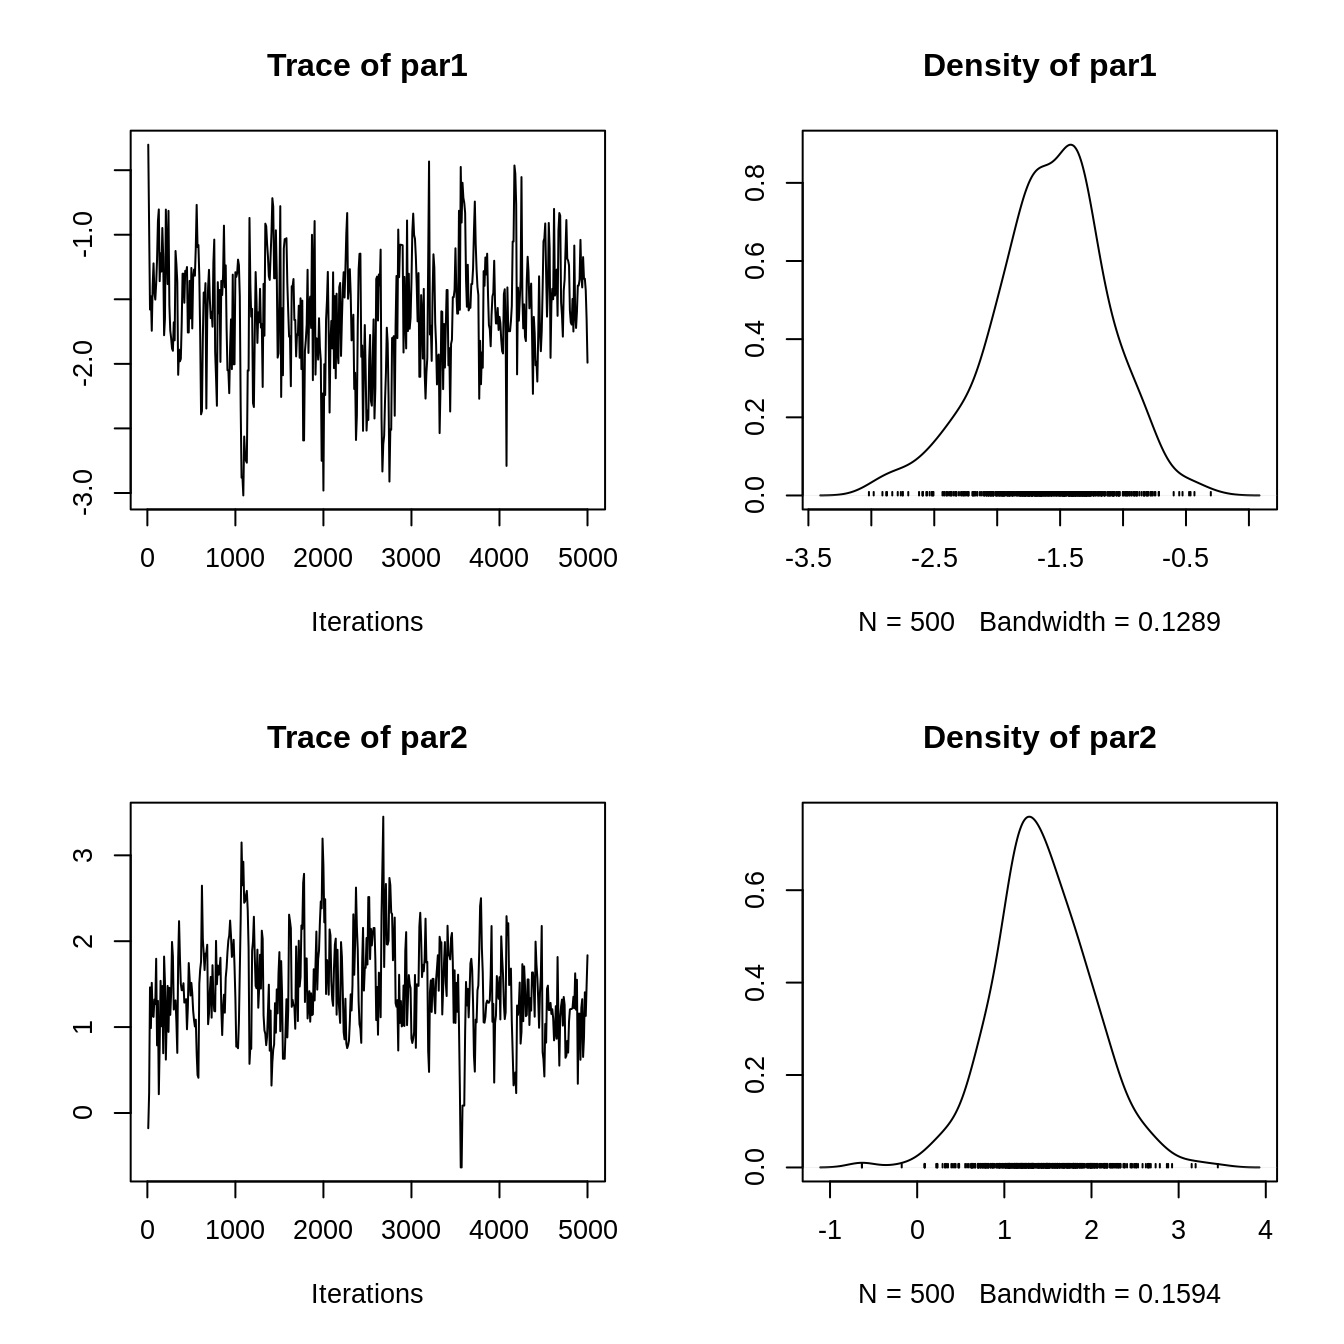
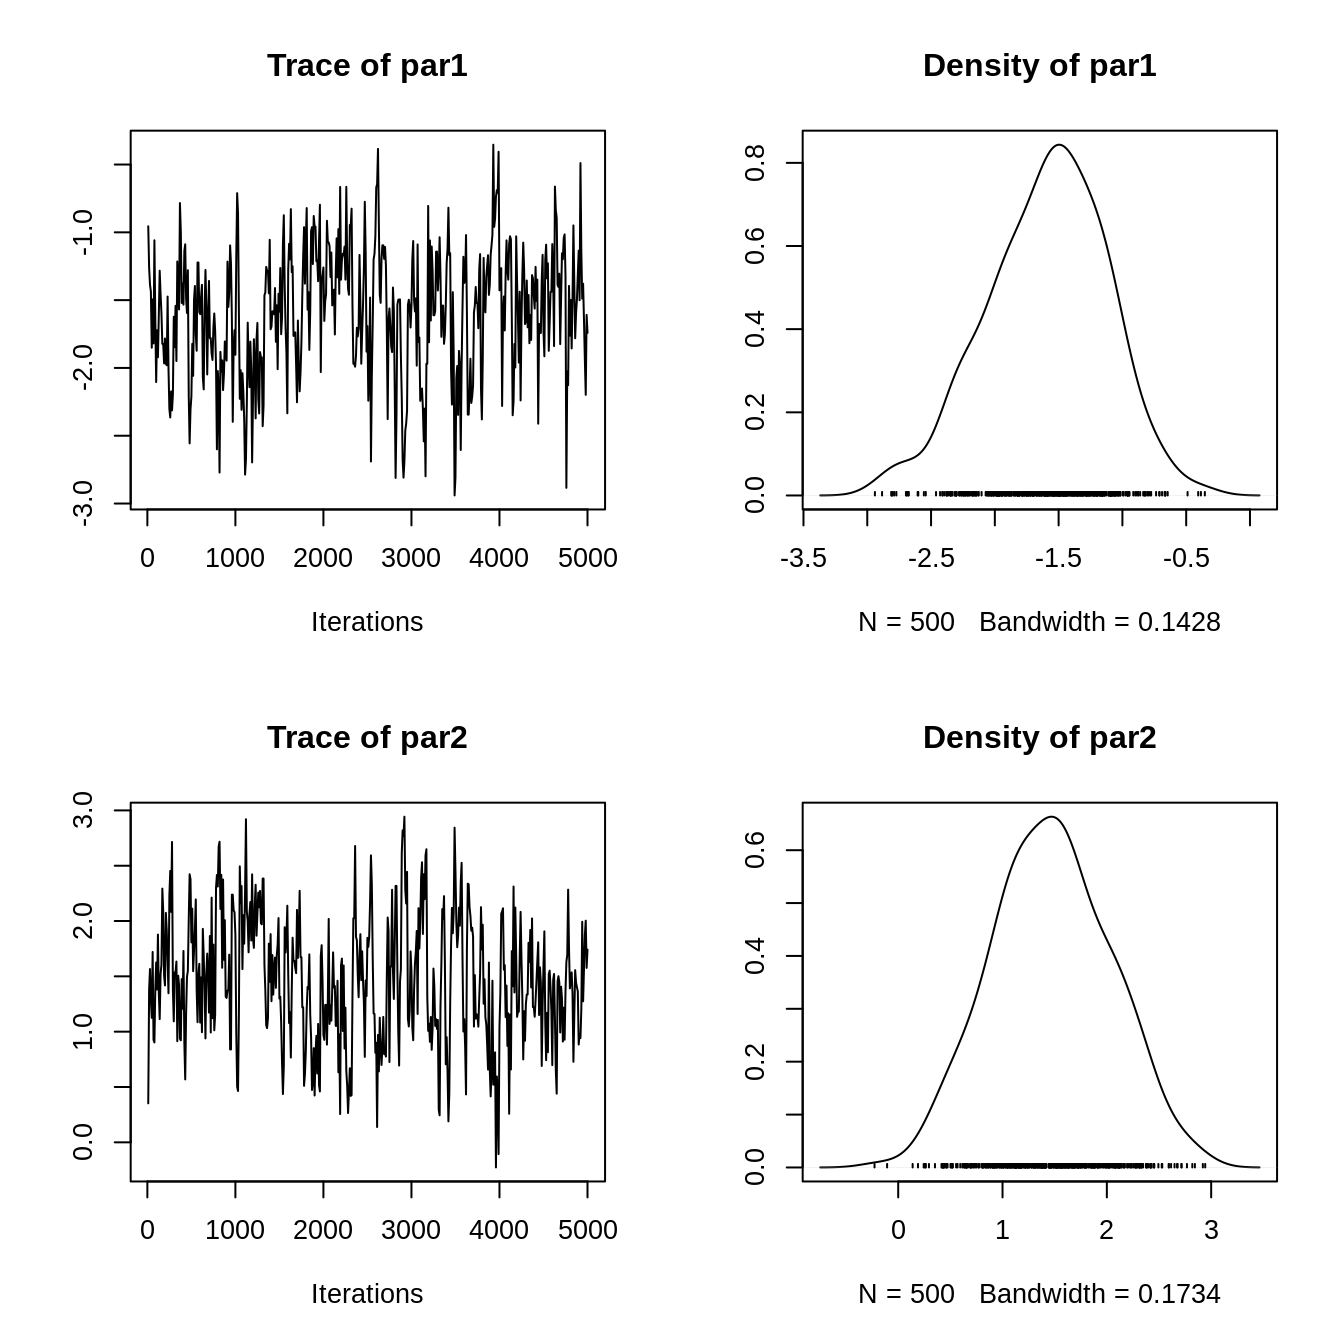
Built site for ergmito: 0.2.0@6edd7da

diff --git a/articles/extending-ergmito.html b/articles/extending-ergmito.html
@@ -92,7 +92,7 @@
       <h1>Extending ergmito</h1>
                         <h4 class="author">George G. Vega Yon</h4>
             
-            <h4 class="date">2020-01-14</h4>
+            <h4 class="date">2020-01-17</h4>
       
       <small class="dont-index">Source: <a href="https://github.com/muriteams/ergmito/blob/master/vignettes/extending-ergmito.Rmd"><code>vignettes/extending-ergmito.Rmd</code></a></small>
       <div class="hidden name"><code>extending-ergmito.Rmd</code></div>
@@ -123,8 +123,8 @@
 <a class="sourceLine" id="cb1-19" data-line-number="19"><span class="co">#&gt;         return(-.Machine$double.xmax * 1e-100)</span></a>
 <a class="sourceLine" id="cb1-20" data-line-number="20"><span class="co">#&gt;     else return(ans)</span></a>
 <a class="sourceLine" id="cb1-21" data-line-number="21"><span class="co">#&gt; }</span></a>
-<a class="sourceLine" id="cb1-22" data-line-number="22"><span class="co">#&gt; &lt;bytecode: 0x9383148&gt;</span></a>
-<a class="sourceLine" id="cb1-23" data-line-number="23"><span class="co">#&gt; &lt;environment: 0x93815f0&gt;</span></a></code></pre></div>
+<a class="sourceLine" id="cb1-22" data-line-number="22"><span class="co">#&gt; &lt;bytecode: 0x94f2eb0&gt;</span></a>
+<a class="sourceLine" id="cb1-23" data-line-number="23"><span class="co">#&gt; &lt;environment: 0x94f5188&gt;</span></a></code></pre></div>
 <p>Besides of the log-likelihood function and the gradient function, <code>ergmito_formulae</code> also returns We can take a look at each component from our previous object:</p>
 <div class="sourceCode" id="cb2"><pre class="sourceCode r"><code class="sourceCode r"><a class="sourceLine" id="cb2-1" data-line-number="1"><span class="co"># The vectors of weights</span></a>
 <a class="sourceLine" id="cb2-2" data-line-number="2"><span class="kw"><a href="https://rdrr.io/r/utils/str.html">str</a></span>(model_object<span class="op">$</span>stats.weights)</a>
@@ -217,14 +217,14 @@
 <a class="sourceLine" id="cb6-9" data-line-number="9"><span class="co">#&gt;    plus standard error of the mean:</span></a>
 <a class="sourceLine" id="cb6-10" data-line-number="10"><span class="co">#&gt; </span></a>
 <a class="sourceLine" id="cb6-11" data-line-number="11"><span class="co">#&gt;        Mean     SD Naive SE Time-series SE</span></a>
-<a class="sourceLine" id="cb6-12" data-line-number="12"><span class="co">#&gt; par1 -1.592 0.4610  0.02062        0.04480</span></a>
-<a class="sourceLine" id="cb6-13" data-line-number="13"><span class="co">#&gt; par2  1.446 0.5621  0.02514        0.05892</span></a>
+<a class="sourceLine" id="cb6-12" data-line-number="12"><span class="co">#&gt; par1 -1.594 0.4670  0.02088        0.04310</span></a>
+<a class="sourceLine" id="cb6-13" data-line-number="13"><span class="co">#&gt; par2  1.465 0.5671  0.02536        0.05323</span></a>
 <a class="sourceLine" id="cb6-14" data-line-number="14"><span class="co">#&gt; </span></a>
 <a class="sourceLine" id="cb6-15" data-line-number="15"><span class="co">#&gt; 2. Quantiles for each variable:</span></a>
 <a class="sourceLine" id="cb6-16" data-line-number="16"><span class="co">#&gt; </span></a>
 <a class="sourceLine" id="cb6-17" data-line-number="17"><span class="co">#&gt;         2.5%    25%    50%    75%   97.5%</span></a>
-<a class="sourceLine" id="cb6-18" data-line-number="18"><span class="co">#&gt; par1 -2.5930 -1.866 -1.568 -1.301 -0.7737</span></a>
-<a class="sourceLine" id="cb6-19" data-line-number="19"><span class="co">#&gt; par2  0.3466  1.098  1.422  1.797  2.6357</span></a></code></pre></div>
+<a class="sourceLine" id="cb6-18" data-line-number="18"><span class="co">#&gt; par1 -2.6418 -1.912 -1.550 -1.263 -0.7544</span></a>
+<a class="sourceLine" id="cb6-19" data-line-number="19"><span class="co">#&gt; par2  0.4246  1.081  1.461  1.865  2.5638</span></a></code></pre></div>
 <p>Finally, we can compare this result with what we obtain from the <code>ergmito</code> function</p>
 <div class="sourceCode" id="cb7"><pre class="sourceCode r"><code class="sourceCode r"><a class="sourceLine" id="cb7-1" data-line-number="1"><span class="kw"><a href="https://rdrr.io/r/base/summary.html">summary</a></span>(<span class="kw"><a href="../reference/ergmito.html">ergmito</a></span>(fivenets <span class="op">~</span><span class="st"> </span>edges <span class="op">+</span><span class="st"> </span><span class="kw">nodematch</span>(<span class="st">"female"</span>)))</a>
 <a class="sourceLine" id="cb7-2" data-line-number="2"><span class="co">#&gt; </span></a>

diff --git a/articles/ergm-equations.html b/articles/ergm-equations.html
@@ -92,7 +92,7 @@
       <h1>ERGM equations</h1>
                         <h4 class="author">George G Vega Yon</h4>
             
-            <h4 class="date">2020-01-14</h4>
+            <h4 class="date">2020-01-17</h4>
       
       <small class="dont-index">Source: <a href="https://github.com/muriteams/ergmito/blob/master/vignettes/ergm-equations.Rmd"><code>vignettes/ergm-equations.Rmd</code></a></small>
       <div class="hidden name"><code>ergm-equations.Rmd</code></div>

diff --git a/reference/ergmito.html b/reference/ergmito.html
@@ -373,7 +373,7 @@ Anecdotally, <code>optim</code> reaches the max in the first try.</p>
 #&gt; ==========================
 #&gt; 
 #&gt; Formula:   net ~ edges + mutual
-#&gt; &lt;environment: 0x2676ee60&gt;
+#&gt; &lt;environment: 0x264245a0&gt;
 #&gt; 
 #&gt; Iterations:  2 out of 20 
 #&gt; 
